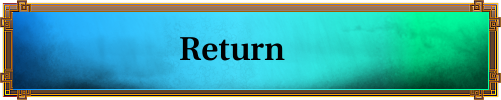
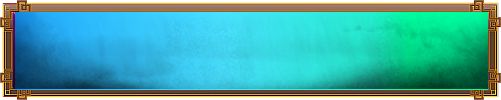
New design (Color Word)

Changed region(s): [[0.3593, 0.36, 0.5689, 0.63], [0.0, 0.12, 0.0299, 0.9]]

diff --git a/main.py b/main.py
@@ -1,6 +1,6 @@
 # -*- coding: utf-8 -*-
 """ A simple Color Game made with kivy """
-__version__ = '0.5.13'
+__version__ = '0.5.14'
 
 from kivy.app import App
 from kivy.uix.progressbar import ProgressBar
@@ -328,17 +328,29 @@ class GameScreen(Screen):
         random.shuffle(self.colors)
         random.shuffle(self.texts)
         # Kivy buttons text
+        bt1b = self.ids['bt1b']
+        bt1b.color = self.colors[0]
+        bt1b.text = self.texts[0]
         bt1 = self.ids['bt1']
-        bt1.color = self.colors[0]
+        # bt1.color = self.colors[0]
         bt1.text = self.texts[0]
+        bt2b = self.ids['bt2b']
+        bt2b.color = self.colors[1]
+        bt2b.text = self.texts[1]
         bt2 = self.ids['bt2']
+        # bt2.color = self.colors[1]
         bt2.text = self.texts[1]
-        bt2.color = self.colors[1]
+        bt3b = self.ids['bt3b']
+        bt3b.color = self.colors[2]
+        bt3b.text = self.texts[2]
         bt3 = self.ids['bt3']
-        bt3.color = self.colors[2]
+        # bt3.color = self.colors[2]
         bt3.text = self.texts[2]
+        bt4b = self.ids['bt4b']
+        bt4b.color = self.colors[3]
+        bt4b.text = self.texts[3]
         bt4 = self.ids['bt4']
-        bt4.color = self.colors[3]
+        # bt4.color = self.colors[3]
         bt4.text = self.texts[3]
 
     def count_points_good(self):
@@ -754,9 +766,9 @@ class GameScreenRepeat(Screen):
 class MenuScreenRepeat(Screen):
     """ The Menu Class """
     text_easiest = "Easiest"
-    text_easy = "Easy"
+    text_easy = "Medium"
     text_medium = "Hard"
-    text_hard = "Crasy"
+    text_hard = "Hard"
 
     @staticmethod
     def leave():
